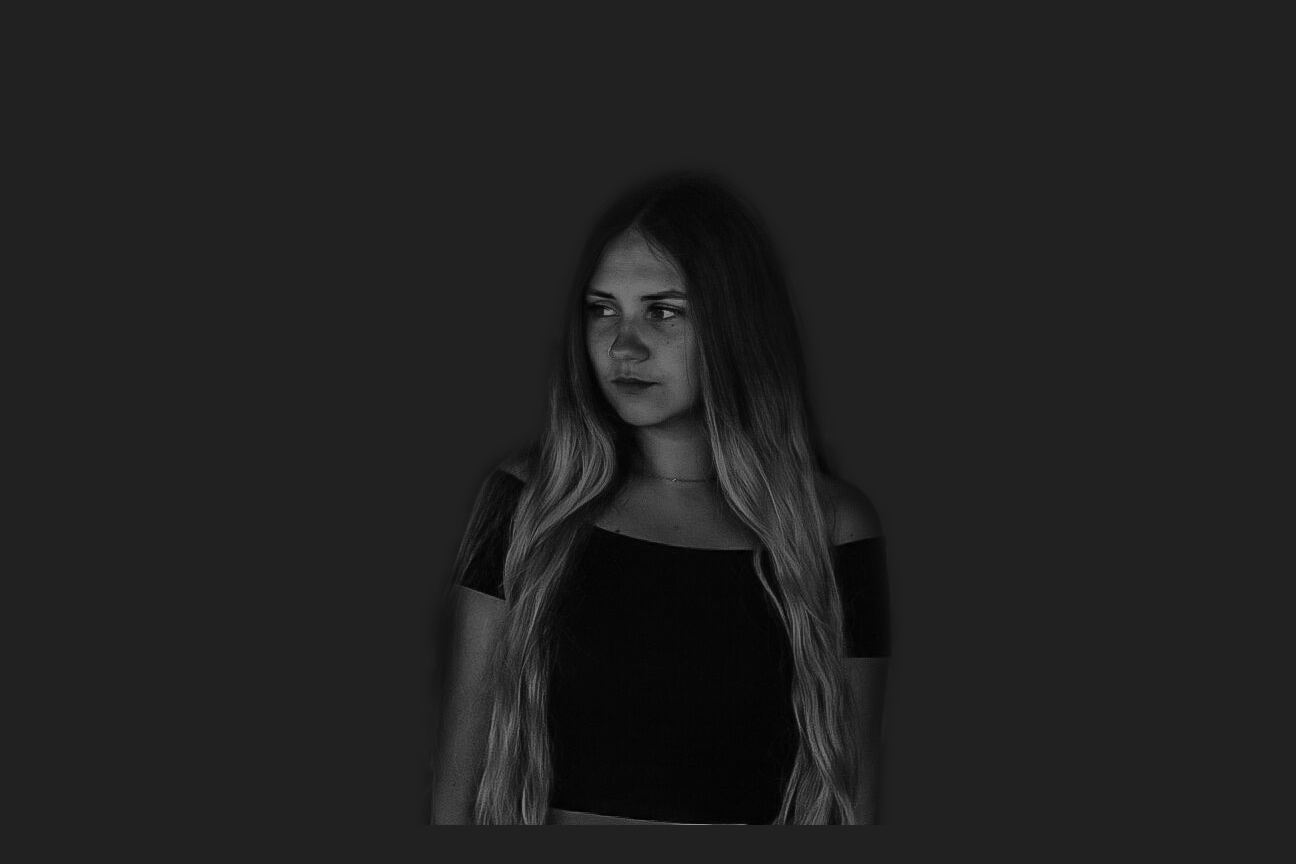
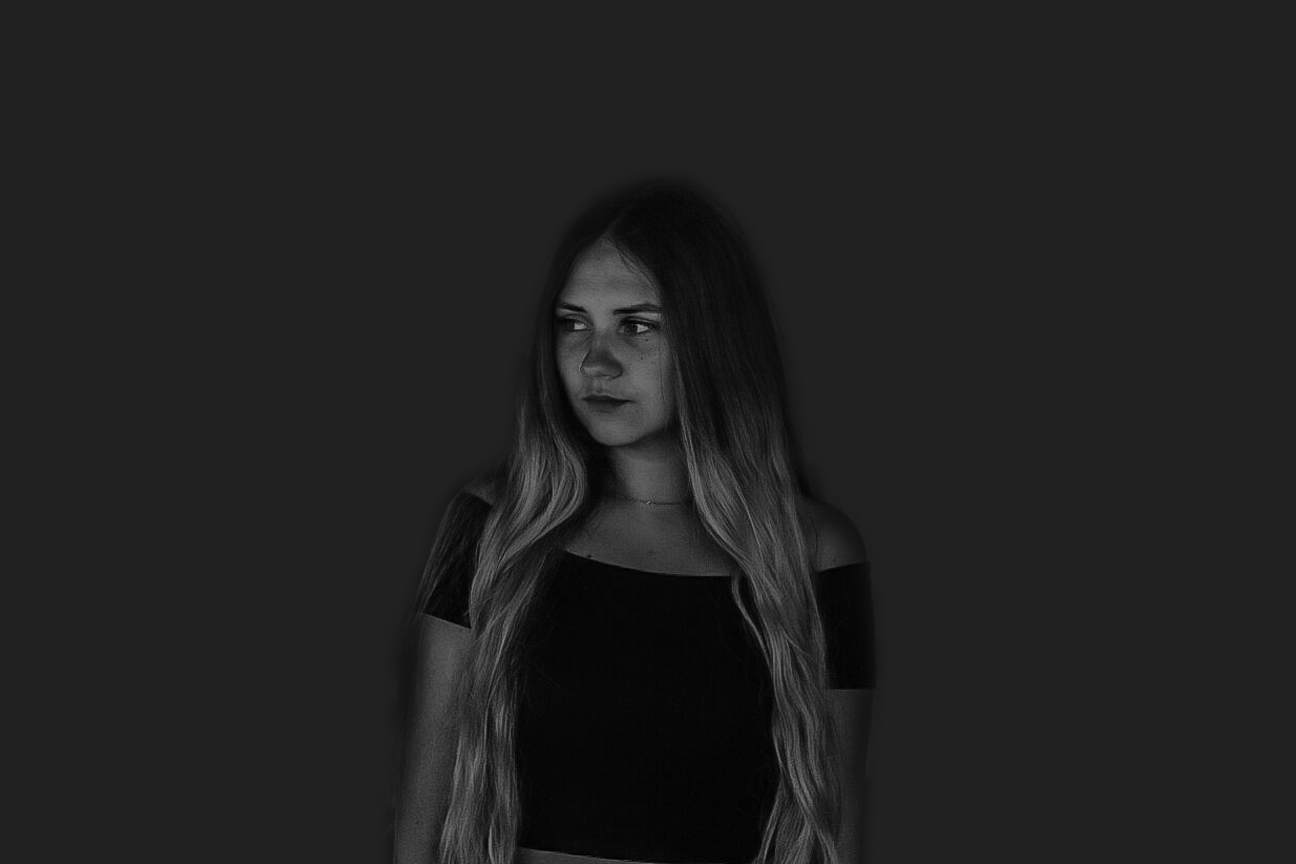
changed position of main picture and redisegned sm buttons

Changed region(s): [[0.3086, 0.25, 0.679, 1.0]]

diff --git a/index.html b/index.html
@@ -25,7 +25,7 @@
 		</div>
 		<header class="codrops-header">
 			<h1 class="codrops-title">Daria Oprya <span>Photography</span></h1>
-				<a class="menu__item" href="https://vk.com/id242402303/"><i style="color: #4c75a3;" class="fab fa-vk fa-2x"></i></a>
+				<a class="menu__item" href="https://vk.com/id242402303/"><i style="color: #4c75a3; margin-right: 10px;" class="fab fa-vk fa-2x"></i></a>
 				<a class="menu__item" href="https://instagram.com/etozheoprya/"><i style="color: #E1306C;" class="fab fa-instagram fa-2x"></i></a>
 		</header>
 		<div class="stack-slider">

diff --git a/css/main.css b/css/main.css
@@ -163,19 +163,6 @@ button:focus {
 	content: "\e004";
 }
 
-/* Menu */
-.menu {
-	font-size: 1em;
-	padding: 0.5em;
-}
-
-.menu__item {
-	margin: 0 1em;
-}
-
-.menu__item--current {
-	color: #ef5350;
-}
 
 /* Hero image */
 .hero {
@@ -741,16 +728,6 @@ button:focus {
 @media screen and (max-width: 45em) {
 	.stack-title {
 		font-size: 1.75em;
-	}
-	.menu__item {
-		background: #4F4E4E;
-		overflow: visible;
-		height: 4px;
-		width: 30px;
-		margin: 3px 10px 0 0;
-	}
-	.menu__item span {
-		display: outside;
 	}
 	.codrops-header {
 		padding: 0.5em 0;
